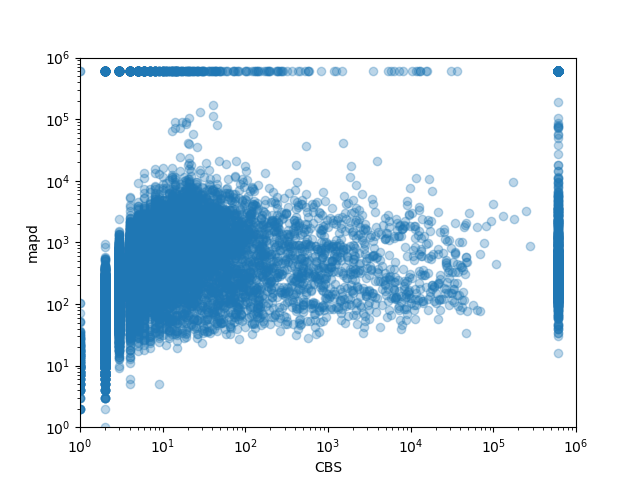
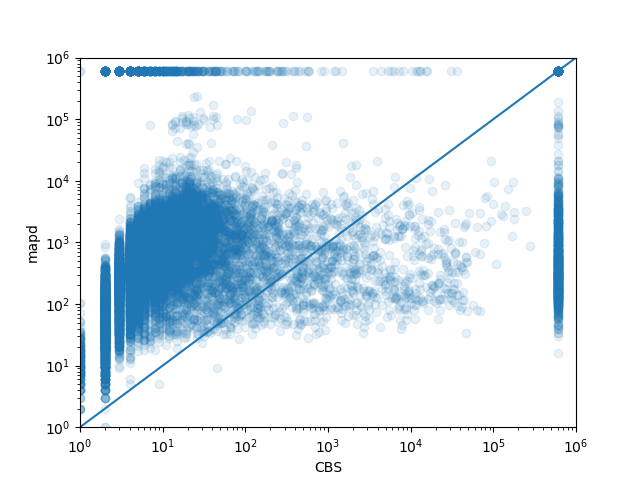
cbs goal constraint fix

diff --git a/input/evaluate_cbs.py b/input/evaluate_cbs.py
@@ -6,22 +6,24 @@ import matplotlib.pyplot as plt
 CBS_PATH = "./cbs"
 COMPARE_PATH = "./mapd"
 COMPARE_NAME = "mapd"
-G_RANGE = range(4, 12)
-S_RANGE = range(0, 19)
+G_RANGE = range(4, 13)
+S_RANGE = range(0, 20)
 
 
 def plot_solved_agents(configs, solved_dict, num_list):
     cbs_vals = [0] * len(num_list)
     comp_vals = [0] * len(num_list)
+    total = [0] * len(num_list)
     for c in configs:
         cbs_vals[num_list.index(int(c[2]))] += int(solved_dict[0][c])
         comp_vals[num_list.index(int(c[2]))] += int(solved_dict[1][c])
+        total[num_list.index(int(c[2]))] += 1
 
     plt.xlabel("# agents")
     plt.ylabel("% solved")
 
-    plt.plot(num_list, [float(v) / float(len(solved_dict[0])) * 100 for v in cbs_vals], label="cbs")
-    plt.plot(num_list, [float(v) / float(len(solved_dict[1])) * 100 for v in comp_vals], label=COMPARE_NAME)
+    plt.plot(num_list, [float(v) / float(n) * 100 for v, n in zip(cbs_vals, total)], label="cbs")
+    plt.plot(num_list, [float(v) / float(n) * 100 for v, n in zip(comp_vals, total)], label=COMPARE_NAME)
 
     plt.legend()
     plt.savefig("solved_agents_cbs__{}.png".format(COMPARE_NAME))
@@ -31,15 +33,17 @@ def plot_solved_agents(configs, solved_dict, num_list):
 def plot_solved_containers(configs, solved_dict, num_list):
     cbs_vals = [0] * len(num_list)
     comp_vals = [0] * len(num_list)
+    total = [0] * len(num_list)
     for c in configs:
         cbs_vals[num_list.index(int(c[3]))] += int(solved_dict[0][c])
         comp_vals[num_list.index(int(c[3]))] += int(solved_dict[1][c])
+        total[num_list.index(int(c[3]))] += 1
 
     plt.xlabel("# containers")
     plt.ylabel("% solved")
 
-    plt.plot(num_list, [float(v) / float(len(solved_dict[0])) * 100 for v in cbs_vals], label="cbs")
-    plt.plot(num_list, [float(v) / float(len(solved_dict[1])) * 100 for v in comp_vals], label=COMPARE_NAME)
+    plt.plot(num_list, [float(v) / float(n) * 100 for v, n in zip(cbs_vals, total)], label="cbs")
+    plt.plot(num_list, [float(v) / float(n) * 100 for v, n in zip(comp_vals, total)], label=COMPARE_NAME)
 
     plt.legend()
     plt.savefig("solved_containers_cbs__{}.png".format(COMPARE_NAME))
@@ -69,8 +73,9 @@ def scatter_dict(configs, data_dict, stat_name, data_type=int, fail_val=0, log_s
         assert(len(val_range) == 2)
         plt.xlim(val_range[0], val_range[1])
         plt.ylim(val_range[0], val_range[1])
+        plt.plot([val_range[0], val_range[1]], [val_range[0], val_range[1]])
 
-    plt.scatter(cbs_vals, comp_vals, alpha=0.3)
+    plt.scatter(cbs_vals, comp_vals, alpha=0.1)
 
     plt.savefig("scatter_{}_cbs__{}.png".format(stat_name, COMPARE_NAME))
     plt.cla()
@@ -119,6 +124,9 @@ def main():
     plot_solved_containers(configs, solved_dict, sorted(list(container_nums)))
     scatter_dict(configs, makespan_dict, "makespan")
     scatter_dict(configs, runtime_dict, "t_total", data_type=float, fail_val='600000', log_scale=True, val_range=[1, 1e6])
+    print("total solved:")
+    print("CBS: {} / {}".format(len([v for v in solved_dict[0].values() if v]), len(configs)))
+    print("{}: {} / {}".format(COMPARE_NAME, len([v for v in solved_dict[1].values() if v]), len(configs)))
 
 
 if __name__ == '__main__':

diff --git a/src/cbs_ta/cbs_ta.cpp b/src/cbs_ta/cbs_ta.cpp
@@ -428,7 +428,7 @@ class Environment {
         m_agentIdx(0),
         m_task(nullptr),
         m_constraints(nullptr),
-        m_lastGoalConstraint(-1),
+        m_lastGoalConstraint(),
         m_maxTaskAssignments(maxTaskAssignments),
         m_numTaskAssignments(0),
         m_highLevelExpanded(0),
@@ -459,18 +459,23 @@ class Environment {
     m_task = task;
     m_delivering = delivering;
     m_constraints = constraints;
-    m_lastGoalConstraint = -1;
     if (m_task != nullptr) {
       auto goal = (m_delivering ? m_task->goal : m_task->start);
       assert(m_obstacles.find(goal) == m_obstacles.end());
       for (const auto& vc : constraints->vertexConstraints) {
         if (vc.x == goal.x && vc.y == goal.y) {
-          m_lastGoalConstraint = std::max(m_lastGoalConstraint, vc.time);
+          auto insert = m_lastGoalConstraint.insert(std::make_pair(goal, vc.time));
+          if (!insert.second) {
+             m_lastGoalConstraint[goal] = std::max(m_lastGoalConstraint.at(goal), vc.time);
+          }
         }
       }
     } else {
       for (const auto& vc : constraints->vertexConstraints) {
-        m_lastGoalConstraint = std::max(m_lastGoalConstraint, vc.time);
+        auto insert = m_lastGoalConstraint.insert(std::make_pair(Location(vc.x, vc.y), vc.time));
+        if (!insert.second) {
+          m_lastGoalConstraint[Location(vc.x, vc.y)] = std::max(m_lastGoalConstraint.at(Location(vc.x, vc.y)), vc.time);
+        }
       }
     }
     // std::cout << "setLLCtx: " << agentIdx << " " << m_lastGoalConstraint <<
@@ -492,7 +497,11 @@ class Environment {
       auto goal = (m_delivering ? m_task->goal : m_task->start);
       atGoal = s.x == goal.x && s.y == goal.y;
     }
-    return atGoal && s.time > m_lastGoalConstraint;
+    auto search = m_lastGoalConstraint.find(Location(s.x, s.y));
+    if (search != m_lastGoalConstraint.end()) {
+      atGoal = (s.time > search->second);
+    }
+    return atGoal;
   }
 
   void getNeighbors(const State& s,
@@ -680,7 +689,7 @@ class Environment {
   size_t m_agentIdx;
   const Container* m_task;
   const Constraints* m_constraints;
-  int m_lastGoalConstraint;
+  std::unordered_map<Location, int> m_lastGoalConstraint;
   NextBestAssignment<size_t, Container> m_assignment;
   size_t m_maxTaskAssignments;
   size_t m_numTaskAssignments;

diff --git a/src/cbs_ta/cbs_ta.hpp b/src/cbs_ta/cbs_ta.hpp
@@ -303,11 +303,11 @@ class CBSTA {
     double subTimeout = (timeout == 0 ? 0 : timeout - timer.elapsedSeconds());
     bool success = lowLevel.search(start, n.solution[agent], 0, subTimeout);
     if (success) {
-      LowLevelEnvironment llenv(m_env, agent, n.constraints.at(agent),
+      LowLevelEnvironment dllenv(m_env, agent, n.constraints.at(agent),
                                 n.task(agent), true);
-      LowLevelSearch_t lowLevel(llenv);
+      LowLevelSearch_t dlowLevel(dllenv);
       PlanResult<State, Action, Cost> deliveryPlan;
-      success = lowLevel.search(n.solution[agent].states.back().first,
+      success = dlowLevel.search(n.solution[agent].states.back().first,
                                 deliveryPlan, n.solution[agent].cost, subTimeout);
       if (success) {
         success = n.solution[agent].append(deliveryPlan);
